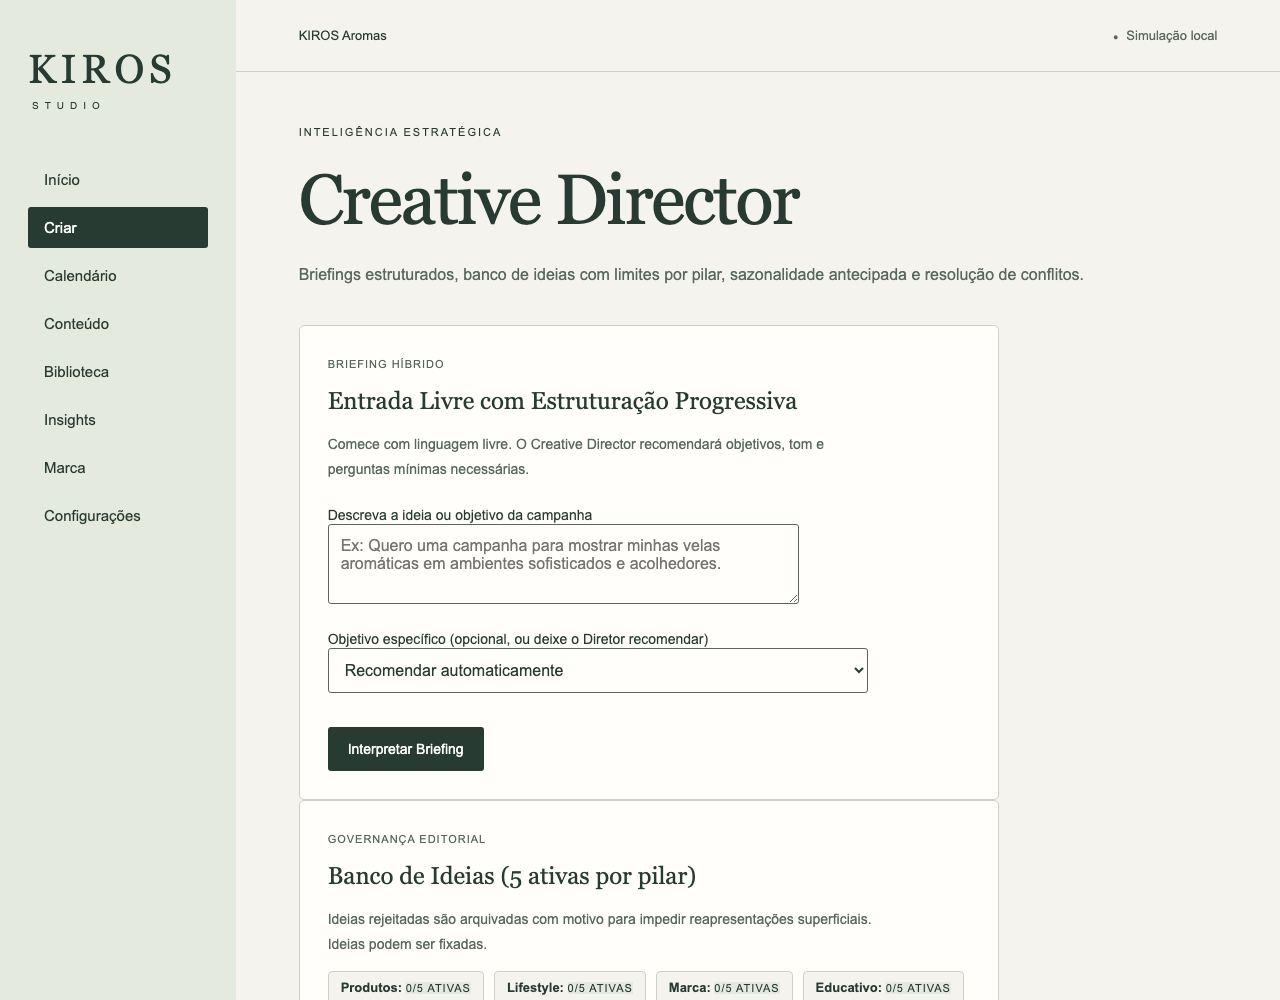
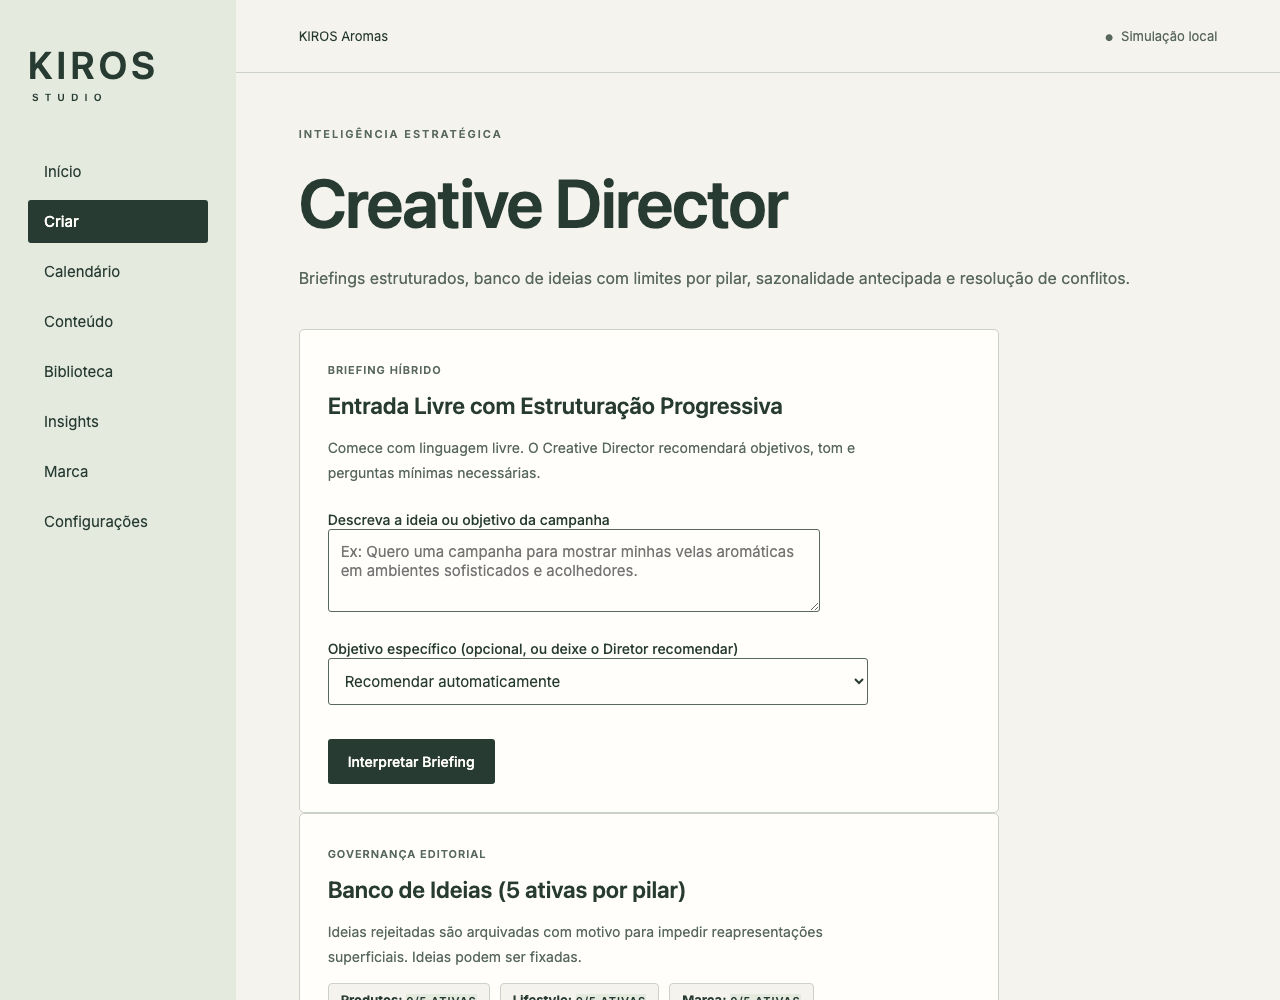
style: atualiza tipografia para Rubik em títulos e Inter no corpo do texto

diff --git a/kiros/ui/style.css b/kiros/ui/style.css
@@ -1,11 +1,120 @@
-:root{color-scheme:light;--paper:#f5f3ee;--ink:#273b32;--muted:#59685e;--line:#cbd1c8;--white:#fffefa;--soft:#e5eade;font-family:Arial,Helvetica,sans-serif;color:var(--ink);background:var(--paper)}
-*{box-sizing:border-box}body{margin:0;display:flex;min-height:100vh}a{color:inherit;text-underline-offset:5px}a:focus-visible,button:focus-visible,input:focus-visible{outline:3px solid var(--ink);outline-offset:5px}.skip{position:fixed;left:20px;top:-100px;background:var(--white);padding:15px;z-index:2}.skip:focus{top:15px}aside{width:236px;flex-shrink:0;padding:46px 28px;background:var(--soft);display:flex;flex-direction:column}.wordmark{font:40px Georgia,serif;letter-spacing:5px;text-decoration:none}.wordmark span{display:block;font:10px Arial,sans-serif;letter-spacing:6px;margin:8px 0 48px 4px}nav{display:grid;gap:7px}nav a{text-decoration:none;padding:12px 16px;border-radius:3px;font-size:15px}nav a:hover{background:var(--paper)}nav a[aria-current]{background:var(--ink);color:var(--white)}.aside-note{font-size:12px;line-height:1.8;color:var(--muted);margin-top:auto;padding-top:60px}.workspace{flex:1;min-width:0}header{display:flex;justify-content:space-between;gap:20px;padding:28px 6%;border-bottom:1px solid var(--line);font-size:13px}header>span:first-child{overflow-wrap:anywhere}.mode{white-space:nowrap;color:var(--muted)}.mode:before{content:'●';font-size:9px;margin-right:8px}main{padding:54px 6%;max-width:1150px;min-height:calc(100vh - 149px)}.eyebrow{font-size:11px;text-transform:uppercase;letter-spacing:2px;margin:0 0 24px}h1{font:clamp(38px,5.5vw,76px)/1.06 Georgia,'Times New Roman',serif;font-weight:normal;letter-spacing:-2px;margin:0 0 24px;overflow-wrap:anywhere}.intro{font-size:16px;line-height:1.8;color:var(--muted);margin-bottom:36px}.panel{background:var(--white);border:1px solid var(--line);border-radius:5px;padding:28px;max-width:700px}.tag{font-size:11px;color:var(--muted);text-transform:uppercase;letter-spacing:1px}h2{font:24px/1.4 Georgia,serif;font-weight:normal;margin:12px 0}.panel p,.note p{font-size:14px;line-height:1.8;color:var(--muted);max-width:560px}.button,button{display:inline-block;background:var(--ink);color:var(--white);padding:14px 20px;border:0;border-radius:3px;font:14px Arial,sans-serif;text-decoration:none;cursor:pointer;margin-top:12px}.button span{margin-left:28px}.note{margin-top:32px}.note h2{font-size:19px}footer{display:flex;justify-content:space-between;margin:0 6%;padding:20px 0;border-top:1px solid var(--line);font-size:11px;color:var(--muted)}form{display:grid;justify-items:start;gap:10px;margin-top:24px}label{font-size:14px}input{width:100%;max-width:440px;padding:13px;border:1px solid var(--muted);border-radius:3px;background:var(--white);color:var(--ink);font:16px Arial,sans-serif}.notice{padding:16px;background:var(--soft)}
-@media(max-width:700px){body{display:block}aside{width:100%;padding:22px}.wordmark{font-size:28px}.wordmark span{display:inline;font-size:9px;margin:0 0 0 14px;letter-spacing:3px}nav{grid-template-columns:repeat(4,minmax(0,1fr));gap:5px;margin-top:22px}nav a{font-size:12px;padding:10px 3px;text-align:center}.aside-note{display:none}header{padding:20px 6%;font-size:12px}main{padding-top:36px;min-height:60vh}.panel{padding:22px}h1{letter-spacing:-1px}.intro br{display:none}}
+:root{
+  color-scheme:light;
+  --paper:#f5f3ee;
+  --ink:#273b32;
+  --muted:#59685e;
+  --line:#cbd1c8;
+  --white:#fffefa;
+  --soft:#e5eade;
+  --font-heading:'Rubik',system-ui,-apple-system,BlinkMacSystemFont,'Segoe UI',Roboto,sans-serif;
+  --font-body:'Inter',system-ui,-apple-system,BlinkMacSystemFont,'Segoe UI',Roboto,sans-serif;
+  font-family:var(--font-body);
+  color:var(--ink);
+  background:var(--paper);
+}
+*{box-sizing:border-box}
+body{margin:0;display:flex;min-height:100vh;font-family:var(--font-body)}
+a{color:inherit;text-underline-offset:5px}
+a:focus-visible,button:focus-visible,input:focus-visible{outline:3px solid var(--ink);outline-offset:5px}
+.skip{position:fixed;left:20px;top:-100px;background:var(--white);padding:15px;z-index:2}
+.skip:focus{top:15px}
+aside{width:236px;flex-shrink:0;padding:46px 28px;background:var(--soft);display:flex;flex-direction:column}
+.wordmark{font-family:var(--font-heading);font-size:38px;font-weight:600;letter-spacing:4px;text-decoration:none;line-height:1}
+.wordmark span{display:block;font-family:var(--font-heading);font-size:10px;font-weight:600;letter-spacing:6px;margin:8px 0 48px 4px}
+nav{display:grid;gap:7px}
+nav a{text-decoration:none;padding:12px 16px;border-radius:3px;font-size:15px;font-family:var(--font-body);font-weight:400}
+nav a:hover{background:var(--paper)}
+nav a[aria-current]{background:var(--ink);color:var(--white);font-weight:500}
+.aside-note{font-size:12px;line-height:1.8;color:var(--muted);margin-top:auto;padding-top:60px;font-family:var(--font-body)}
+.workspace{flex:1;min-width:0}
+header{display:flex;justify-content:space-between;gap:20px;padding:28px 6%;border-bottom:1px solid var(--line);font-size:13px;font-family:var(--font-body)}
+header>span:first-child{overflow-wrap:anywhere}
+.mode{white-space:nowrap;color:var(--muted)}
+.mode:before{content:'●';font-size:9px;margin-right:8px}
+main{padding:54px 6%;max-width:1150px;min-height:calc(100vh - 149px)}
+.eyebrow{font-size:11px;text-transform:uppercase;letter-spacing:2px;margin:0 0 24px;font-family:var(--font-body);font-weight:600;color:var(--muted)}
+h1{font-family:var(--font-heading);font-size:clamp(36px,5.5vw,68px);line-height:1.1;font-weight:600;letter-spacing:-1.2px;margin:0 0 24px;overflow-wrap:anywhere}
+.intro{font-size:16px;line-height:1.8;color:var(--muted);margin-bottom:36px;font-family:var(--font-body)}
+.panel{background:var(--white);border:1px solid var(--line);border-radius:5px;padding:28px;max-width:700px}
+.tag{font-size:11px;color:var(--muted);text-transform:uppercase;letter-spacing:1px;font-family:var(--font-body);font-weight:600}
+h2{font-family:var(--font-heading);font-size:23px;line-height:1.35;font-weight:600;margin:12px 0}
+h3{font-family:var(--font-heading);font-size:18px;font-weight:600;margin:10px 0}
+h4{font-family:var(--font-heading);font-size:15px;font-weight:600;margin:8px 0}
+.panel p,.note p{font-size:14px;line-height:1.8;color:var(--muted);max-width:560px;font-family:var(--font-body)}
+.button,button{display:inline-block;background:var(--ink);color:var(--white);padding:14px 20px;border:0;border-radius:3px;font-family:var(--font-body);font-size:14px;font-weight:500;text-decoration:none;cursor:pointer;margin-top:12px}
+.button span{margin-left:28px}
+.note{margin-top:32px}
+.note h2{font-size:19px;font-family:var(--font-heading);font-weight:600}
+footer{display:flex;justify-content:space-between;margin:0 6%;padding:20px 0;border-top:1px solid var(--line);font-size:11px;color:var(--muted);font-family:var(--font-body)}
+form{display:grid;justify-items:start;gap:10px;margin-top:24px}
+label{font-size:14px;font-family:var(--font-body);font-weight:500}
+input{width:100%;max-width:440px;padding:13px;border:1px solid var(--muted);border-radius:3px;background:var(--white);color:var(--ink);font:15px var(--font-body)}
+.notice{padding:16px;background:var(--soft);font-family:var(--font-body)}
+
+@media(max-width:700px){
+  body{display:block}
+  aside{width:100%;padding:22px}
+  .wordmark{font-size:28px}
+  .wordmark span{display:inline;font-size:9px;margin:0 0 0 14px;letter-spacing:3px}
+  nav{grid-template-columns:repeat(4,minmax(0,1fr));gap:5px;margin-top:22px}
+  nav a{font-size:12px;padding:10px 3px;text-align:center}
+  .aside-note{display:none}
+  header{padding:20px 6%;font-size:12px}
+  main{padding-top:36px;min-height:60vh}
+  .panel{padding:22px}
+  h1{letter-spacing:-0.8px}
+  .intro br{display:none}
+}
+
 /* M01: formulários e fichas seguem a paleta e tipografia locais. */
-details.panel{margin:18px 0}summary{cursor:pointer;font:20px/1.5 Georgia,serif}summary:focus-visible,select:focus-visible,textarea:focus-visible{outline:3px solid var(--ink);outline-offset:4px}textarea,select{width:100%;max-width:540px;padding:12px;border:1px solid var(--muted);border-radius:3px;background:var(--white);color:var(--ink);font:16px Arial,sans-serif}textarea{resize:vertical}form{width:100%;min-width:0}form label{margin-top:8px}.check{display:flex;gap:10px;align-items:flex-start;line-height:1.6}.check input{width:18px;flex-shrink:0;margin-top:4px}.revision{margin:18px 0}dl{margin:24px 0}dt{font-size:12px;color:var(--muted);margin-top:16px}dd{margin:5px 0;white-space:pre-wrap;overflow-wrap:anywhere;line-height:1.6}.panel p{overflow-wrap:anywhere}.reference-grid{display:grid;grid-template-columns:repeat(2,minmax(0,1fr));gap:20px}.reference-grid .panel{min-width:0}.reference-photo{width:100%;height:200px;object-fit:contain;background:var(--paper)}.reference-id{font:12px monospace}.table-scroll{overflow-x:auto}table{border-collapse:collapse;width:100%;font-size:14px}th,td{padding:14px 10px;text-align:left;border-bottom:1px solid var(--line)}@media(max-width:700px){.reference-grid{grid-template-columns:1fr}input[type=file]{font-size:13px}}
+details.panel{margin:18px 0}
+summary{cursor:pointer;font-family:var(--font-heading);font-size:19px;line-height:1.5;font-weight:500}
+summary:focus-visible,select:focus-visible,textarea:focus-visible{outline:3px solid var(--ink);outline-offset:4px}
+textarea,select{width:100%;max-width:540px;padding:12px;border:1px solid var(--muted);border-radius:3px;background:var(--white);color:var(--ink);font:15px var(--font-body)}
+textarea{resize:vertical}
+form{width:100%;min-width:0}
+form label{margin-top:8px}
+.check{display:flex;gap:10px;align-items:flex-start;line-height:1.6}
+.check input{width:18px;flex-shrink:0;margin-top:4px}
+.revision{margin:18px 0}
+dl{margin:24px 0}
+dt{font-size:12px;color:var(--muted);margin-top:16px;font-family:var(--font-body);font-weight:600}
+dd{margin:5px 0;white-space:pre-wrap;overflow-wrap:anywhere;line-height:1.6;font-family:var(--font-body)}
+.panel p{overflow-wrap:anywhere}
+.reference-grid{display:grid;grid-template-columns:repeat(2,minmax(0,1fr));gap:20px}
+.reference-grid .panel{min-width:0}
+.reference-photo{width:100%;height:200px;object-fit:contain;background:var(--paper)}
+.reference-id{font:12px monospace}
+.table-scroll{overflow-x:auto}
+table{border-collapse:collapse;width:100%;font-size:14px;font-family:var(--font-body)}
+th,td{padding:14px 10px;text-align:left;border-bottom:1px solid var(--line)}
+th{font-weight:600;font-family:var(--font-body)}
+@media(max-width:700px){.reference-grid{grid-template-columns:1fr}input[type=file]{font-size:13px}}
+
 /* M02: providers, badges, cards e resultados de latência */
-.provider-cards{display:grid;gap:16px;margin:16px 0}.provider-card{padding:18px;border:1px solid var(--line);border-radius:4px;background:var(--white)}.card-header{display:flex;justify-content:space-between;align-items:flex-start;gap:12px}.card-header h3{margin:4px 0;font:18px Georgia,serif}.card-actions{display:flex;flex-wrap:wrap;gap:8px;margin-top:14px}.card-actions button{margin-top:0;padding:8px 14px;font-size:12px}.button-secondary{background:var(--soft);color:var(--ink);border:1px solid var(--line)}.button-danger{background:#5a2323;color:var(--white)}.badge{display:inline-block;padding:3px 8px;border-radius:3px;font-size:11px;font-weight:bold;letter-spacing:0.5px;text-transform:uppercase}.status-active{background:var(--soft);color:var(--ink)}.status-inactive{background:var(--paper);color:var(--muted);border:1px solid var(--line)}.badge-success{background:var(--soft);color:var(--ink)}.badge-error{background:#fbeae5;color:#8a2e1d}.secret-shield{font:12px monospace;background:var(--paper);padding:2px 6px;border-radius:3px}.test-result-panel{border-left:4px solid var(--ink);margin:16px 0}.recommendation-box{background:var(--paper);padding:16px;border-radius:4px;margin-top:12px}.recommendation-box ul{padding-left:20px;margin:8px 0;color:var(--muted);font-size:13px;line-height:1.6}.hint{font-size:12px;color:var(--muted);margin-top:2px}.form-group{margin-bottom:12px}
+.provider-cards{display:grid;gap:16px;margin:16px 0}
+.provider-card{padding:18px;border:1px solid var(--line);border-radius:4px;background:var(--white)}
+.card-header{display:flex;justify-content:space-between;align-items:flex-start;gap:12px}
+.card-header h3{margin:4px 0;font-family:var(--font-heading);font-size:18px;font-weight:600}
+.card-actions{display:flex;flex-wrap:wrap;gap:8px;margin-top:14px}
+.card-actions button{margin-top:0;padding:8px 14px;font-size:12px}
+.button-secondary{background:var(--soft);color:var(--ink);border:1px solid var(--line)}
+.button-danger{background:#5a2323;color:var(--white)}
+.badge{display:inline-block;padding:3px 8px;border-radius:3px;font-size:11px;font-weight:600;letter-spacing:0.5px;text-transform:uppercase;font-family:var(--font-body)}
+.status-active{background:var(--soft);color:var(--ink)}
+.status-inactive{background:var(--paper);color:var(--muted);border:1px solid var(--line)}
+.badge-success{background:var(--soft);color:var(--ink)}
+.badge-error{background:#fbeae5;color:#8a2e1d}
+.secret-shield{font:12px monospace;background:var(--paper);padding:2px 6px;border-radius:3px}
+.test-result-panel{border-left:4px solid var(--ink);margin:16px 0}
+.recommendation-box{background:var(--paper);padding:16px;border-radius:4px;margin-top:12px}
+.recommendation-box ul{padding-left:20px;margin:8px 0;color:var(--muted);font-size:13px;line-height:1.6}
+.hint{font-size:12px;color:var(--muted);margin-top:2px;font-family:var(--font-body)}
+.form-group{margin-bottom:12px}
+
 /* M03: Creative Director, pilares e banco de ideias */
-.pillar-summary{display:flex;flex-wrap:wrap;gap:10px;margin:14px 0}.pillar-chip{background:var(--paper);padding:8px 12px;border-radius:4px;border:1px solid var(--line);font-size:13px}.idea-cards{display:grid;gap:14px}.idea-card{padding:16px;border:1px solid var(--line);border-radius:4px;background:var(--white)}.idea-pinned{border-left:4px solid var(--ink);background:var(--paper)}
-
-
+.pillar-summary{display:flex;flex-wrap:wrap;gap:10px;margin:14px 0}
+.pillar-chip{background:var(--paper);padding:8px 12px;border-radius:4px;border:1px solid var(--line);font-size:13px;font-family:var(--font-body)}
+.idea-cards{display:grid;gap:14px}
+.idea-card{padding:16px;border:1px solid var(--line);border-radius:4px;background:var(--white)}
+.idea-pinned{border-left:4px solid var(--ink);background:var(--paper)}

diff --git a/kiros/ui/page.py b/kiros/ui/page.py
@@ -54,7 +54,11 @@ def render_page(app, section, saved=False, query=None):
         <a href="/inicio">Voltar ao início</a></div>'''
     return f'''<!doctype html><html lang="pt-BR"><head><meta charset="utf-8">
     <meta name="viewport" content="width=device-width, initial-scale=1">
-    <title>{title} · KIROS Studio</title><link rel="stylesheet" href="/style.css"></head>
+    <title>{title} · KIROS Studio</title>
+    <link rel="preconnect" href="https://fonts.googleapis.com">
+    <link rel="preconnect" href="https://fonts.gstatic.com" crossorigin>
+    <link href="https://fonts.googleapis.com/css2?family=Inter:wght@300;400;500;600&family=Rubik:wght@400;500;600;700&display=swap" rel="stylesheet">
+    <link rel="stylesheet" href="/style.css"></head>
     <body><a class="skip" href="#main">Pular para o conteúdo</a>
     <aside><a class="wordmark" href="/inicio" aria-label="KIROS Studio, início">KIROS<span>STUDIO</span></a>
     <nav aria-label="Navegação principal">{links}</nav>

diff --git a/kiros/__main__.py b/kiros/__main__.py
@@ -27,7 +27,7 @@ def make_server(data_dir, port=8765):
             self.send_header('Content-Type', kind)
             self.send_header('Content-Length', str(len(data)))
             self.send_header('Cache-Control', 'no-store')
-            self.send_header('Content-Security-Policy', "default-src 'none'; style-src 'self'; img-src 'self'; form-action 'self'; base-uri 'none'; frame-ancestors 'none'")
+            self.send_header('Content-Security-Policy', "default-src 'none'; style-src 'self' https://fonts.googleapis.com; font-src 'self' https://fonts.gstatic.com data:; img-src 'self'; form-action 'self'; base-uri 'none'; frame-ancestors 'none'")
             self.send_header('X-Content-Type-Options', 'nosniff')
             self.send_header('Referrer-Policy', 'no-referrer')
             if location:
